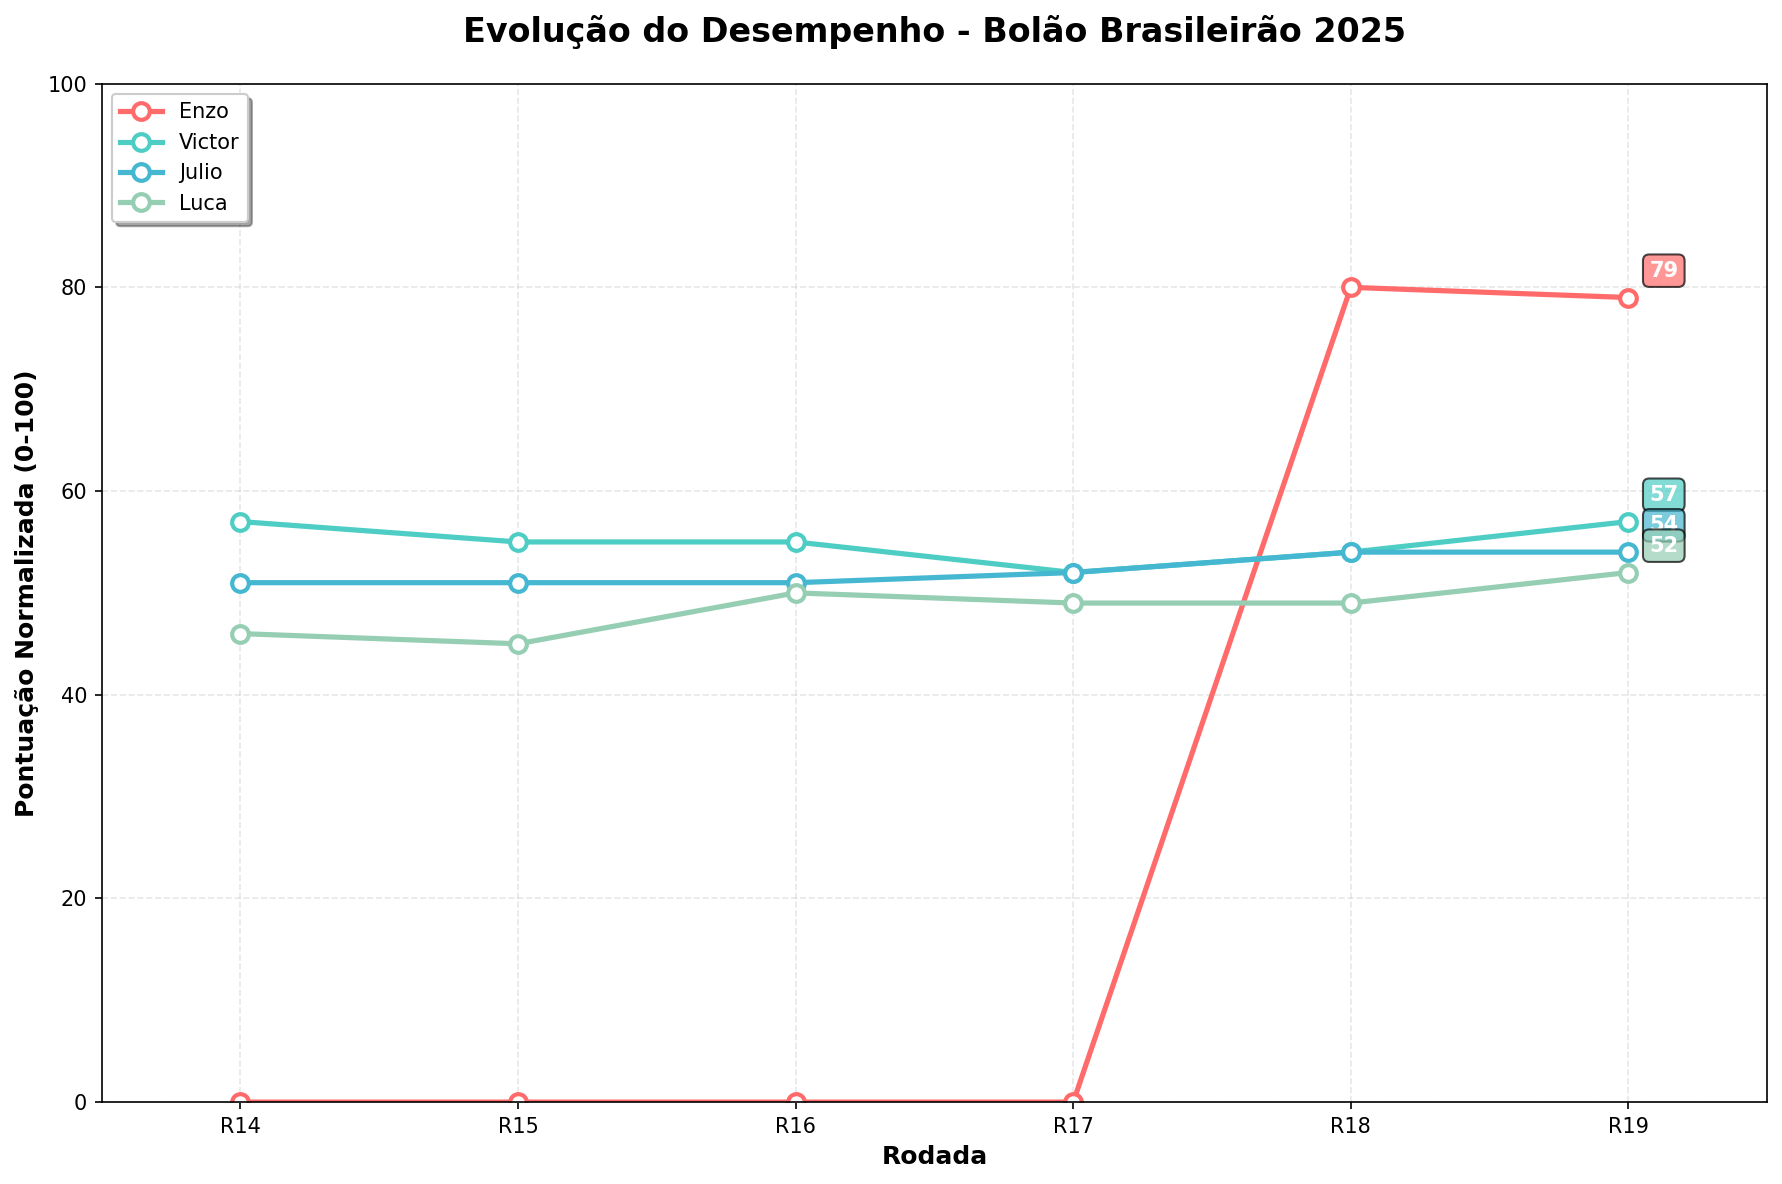
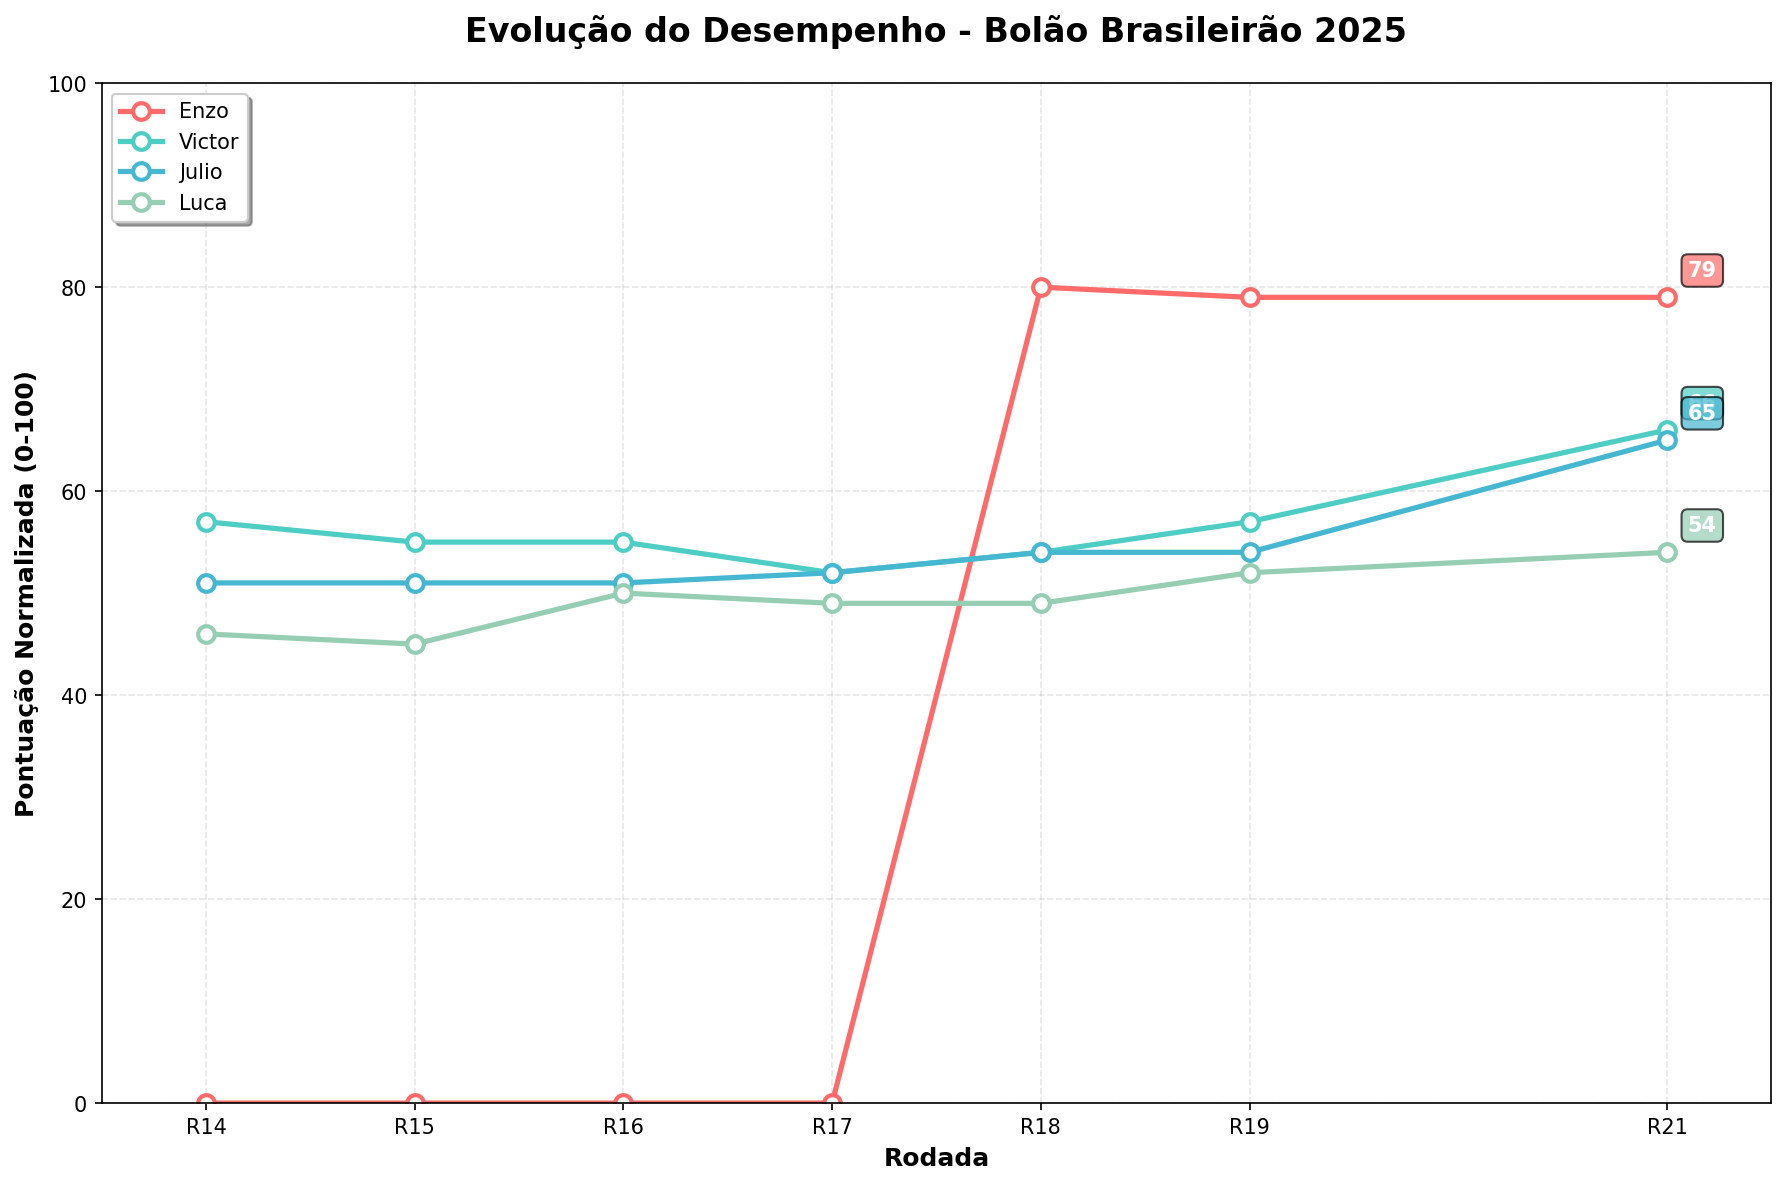
Atualizacao automatica - 23/08/2025 20:36:41,21

diff --git a/README.md b/README.md
@@ -2,38 +2,38 @@
 
 ## 🏆 Resultados Atuais
 
-**Última Atualização:** 2025-08-10 12:14:04
+**Última Atualização:** 2025-08-23 20:36:40
 
 | Time | Real | Enzo | Victor | Julio | Luca |
 |------|------|------|------|------|------|
 | Flamengo | 1 | 2°(19p) | 2°(19p) | 1°(20p) | 1°(20p) |
-| Cruzeiro | 2 | 1°(19p) | 14°(8p) | 17°(5p) | 11°(11p) |
+| Cruzeiro | 2 | 1°(19p) | 14°(8p) | 5°(17p) | 11°(11p) |
 | Palmeiras | 3 | 3°(20p) | 5°(18p) | 4°(19p) | 2°(19p) |
 | Bahia | 4 | 8°(16p) | 4°(20p) | 6°(18p) | 7°(17p) |
-| Botafogo | 5 | 7°(18p) | 3°(18p) | 7°(18p) | 5°(20p) |
-| Mirassol | 6 | 4°(18p) | 20°(6p) | 18°(8p) | 19°(7p) |
-| São Paulo | 7 | 14°(13p) | 9°(18p) | 8°(19p) | 9°(18p) |
-| Red Bull Bragantino | 8 | 6°(18p) | 17°(11p) | 16°(12p) | 15°(13p) |
+| Red Bull Bragantino | 5 | 6°(19p) | 17°(8p) | 16°(9p) | 15°(10p) |
+| Botafogo | 6 | 7°(19p) | 3°(17p) | 7°(19p) | 5°(19p) |
+| Mirassol | 7 | 4°(17p) | 8°(19p) | 18°(9p) | 12°(15p) |
+| São Paulo | 8 | 14°(14p) | 9°(19p) | 8°(20p) | 9°(19p) |
 | Fluminense | 9 | 9°(20p) | 6°(17p) | 10°(19p) | 13°(16p) |
-| Internacional | 10 | 5°(15p) | 1°(11p) | 2°(12p) | 3°(13p) |
+| Ceará | 10 | 13°(17p) | 13°(17p) | 11°(19p) | 18°(12p) |
 | Atlético-MG | 11 | 12°(19p) | 10°(19p) | 9°(18p) | 8°(17p) |
-| Ceará | 12 | 13°(19p) | 13°(19p) | 11°(19p) | 18°(14p) |
-| Corinthians | 13 | 11°(18p) | 7°(14p) | 3°(10p) | 6°(13p) |
-| Grêmio | 14 | 10°(16p) | 11°(17p) | 15°(19p) | 14°(20p) |
+| Internacional | 12 | 5°(13p) | 1°(9p) | 2°(10p) | 3°(11p) |
+| Grêmio | 13 | 10°(17p) | 11°(18p) | 15°(18p) | 14°(19p) |
+| Corinthians | 14 | 11°(17p) | 7°(13p) | 3°(9p) | 6°(12p) |
 | Santos | 15 | 17°(18p) | 12°(17p) | 13°(18p) | 4°(9p) |
-| Vitória | 16 | 19°(17p) | 18°(18p) | 19°(17p) | 20°(16p) |
-| Vasco da Gama | 17 | 16°(19p) | 16°(19p) | 14°(17p) | 17°(20p) |
-| Fortaleza | 18 | 15°(17p) | 8°(10p) | 5°(7p) | 10°(12p) |
-| Juventude | 19 | 18°(19p) | 15°(16p) | 12°(13p) | 12°(13p) |
+| Vasco da Gama | 16 | 16°(20p) | 16°(20p) | 14°(18p) | 17°(19p) |
+| Vitória | 17 | 19°(18p) | 18°(19p) | 19°(18p) | 20°(17p) |
+| Juventude | 18 | 18°(20p) | 15°(17p) | 12°(14p) | 19°(19p) |
+| Fortaleza | 19 | 15°(16p) | 20°(19p) | 17°(18p) | 10°(11p) |
 | Sport | 20 | 20°(20p) | 19°(19p) | 20°(20p) | 16°(16p) |
-| **TOTAL** | | **358** | **314** | **308** | **304** |
+| **TOTAL** | | **358** | **332** | **330** | **308** |
 
 ### 🏅 Classificação Final (pontuação normalizada 0-100)
 
 🥇 **Enzo**: 79 pontos
-🥈 **Victor**: 57 pontos
-🥉 **Julio**: 54 pontos
-4. **Luca**: 52 pontos
+🥈 **Victor**: 66 pontos
+🥉 **Julio**: 65 pontos
+4. **Luca**: 54 pontos
 
 ### 📈 Histórico de Desempenho
 
@@ -47,12 +47,13 @@
 | R17 | 0 | 52 | 52 | 49 |
 | R18 | 80 | 54 | 54 | 49 |
 | R19 | 79 | 57 | 54 | 52 |
+| R21 | 79 | 66 | 65 | 54 |
 
 **Tendência (últimas 2 medições):**
-- **Enzo**: 📉 -1
-- **Victor**: 📈 +3
-- **Julio**: ➡ =0
-- **Luca**: 📈 +3
+- **Enzo**: ➡ =0
+- **Victor**: 📈 +9
+- **Julio**: 📈 +11
+- **Luca**: 📈 +2
 
 ## 📖 Sobre o Projeto
 
